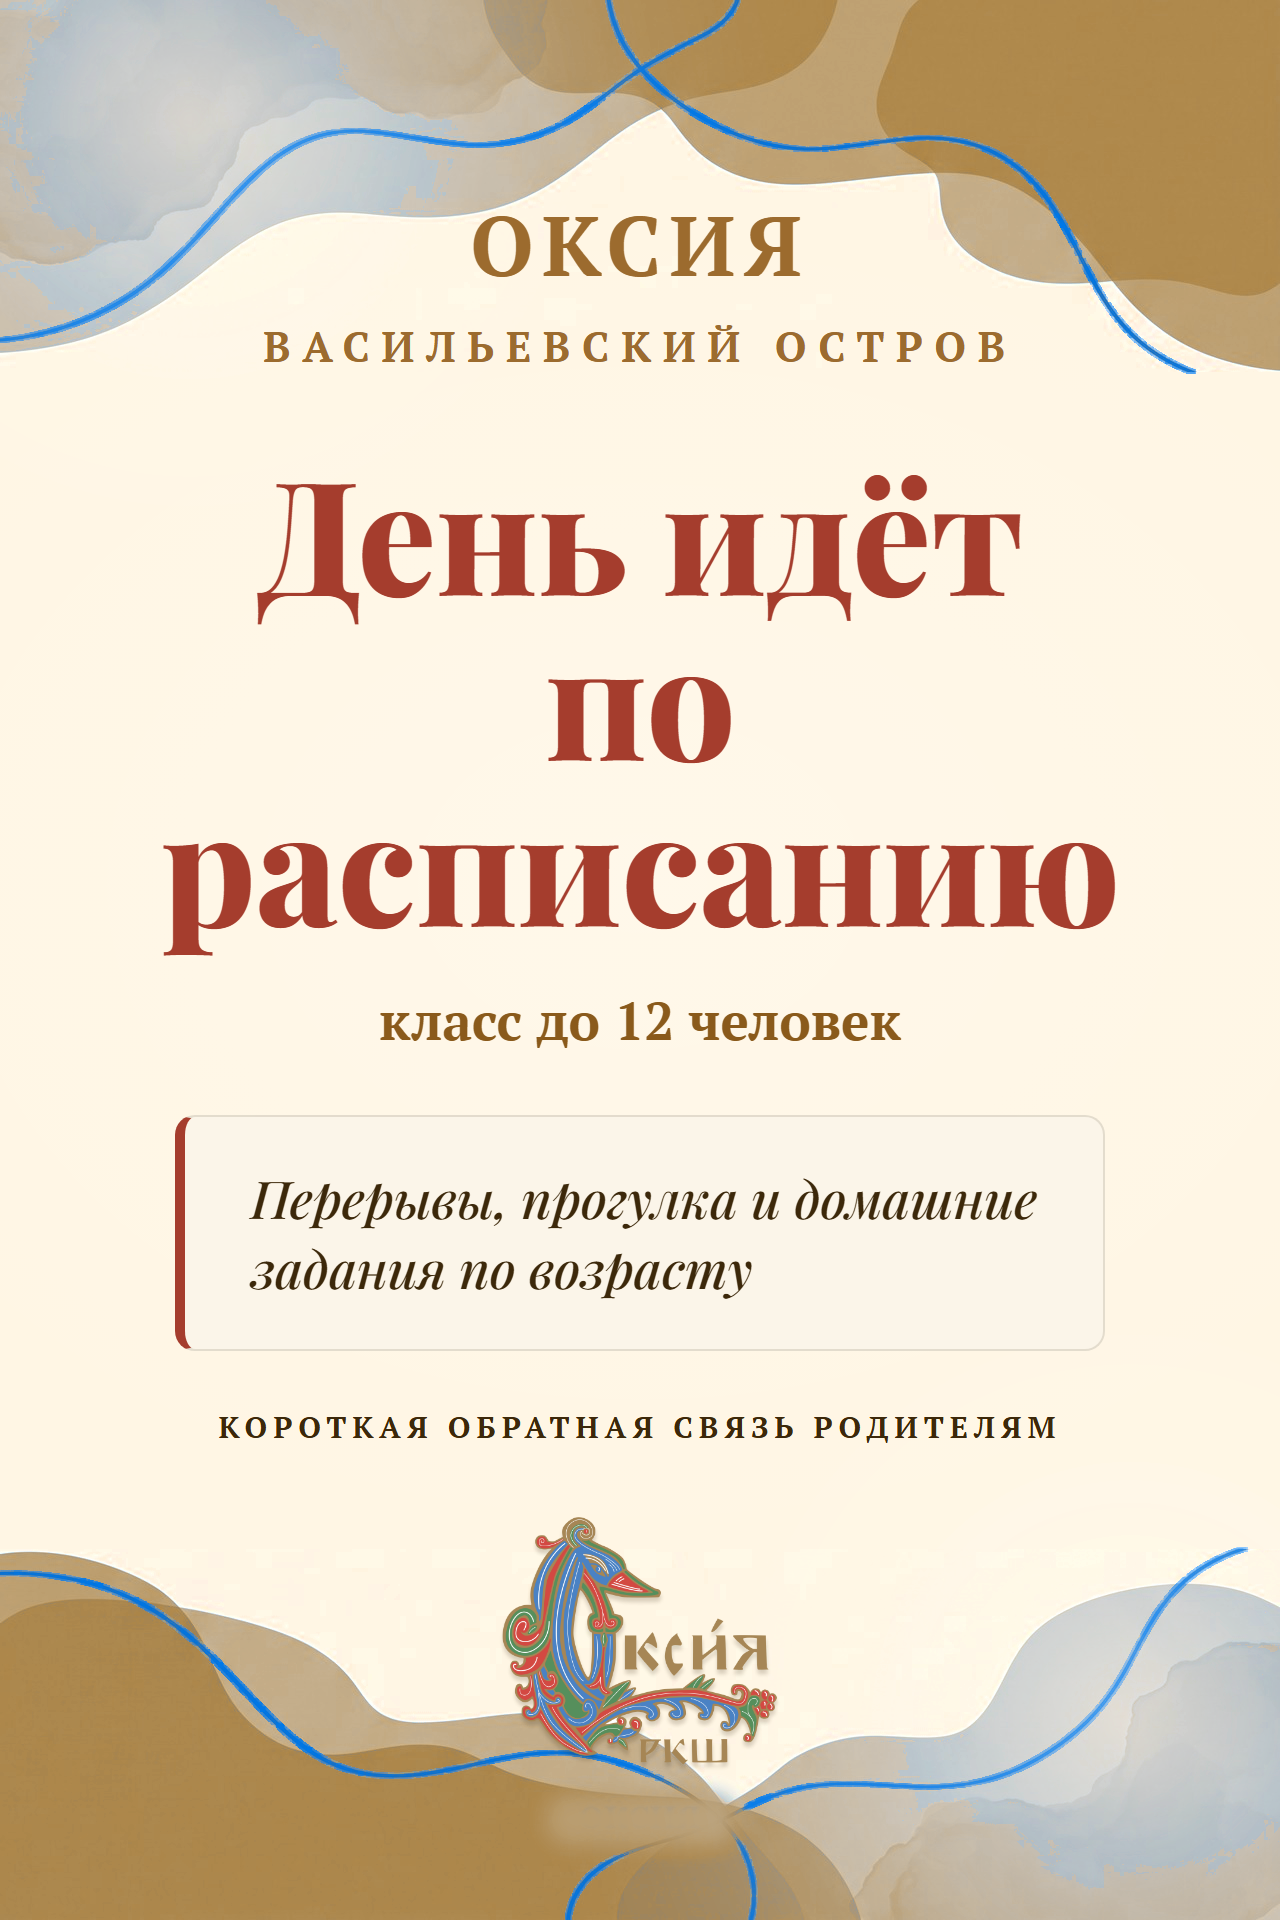
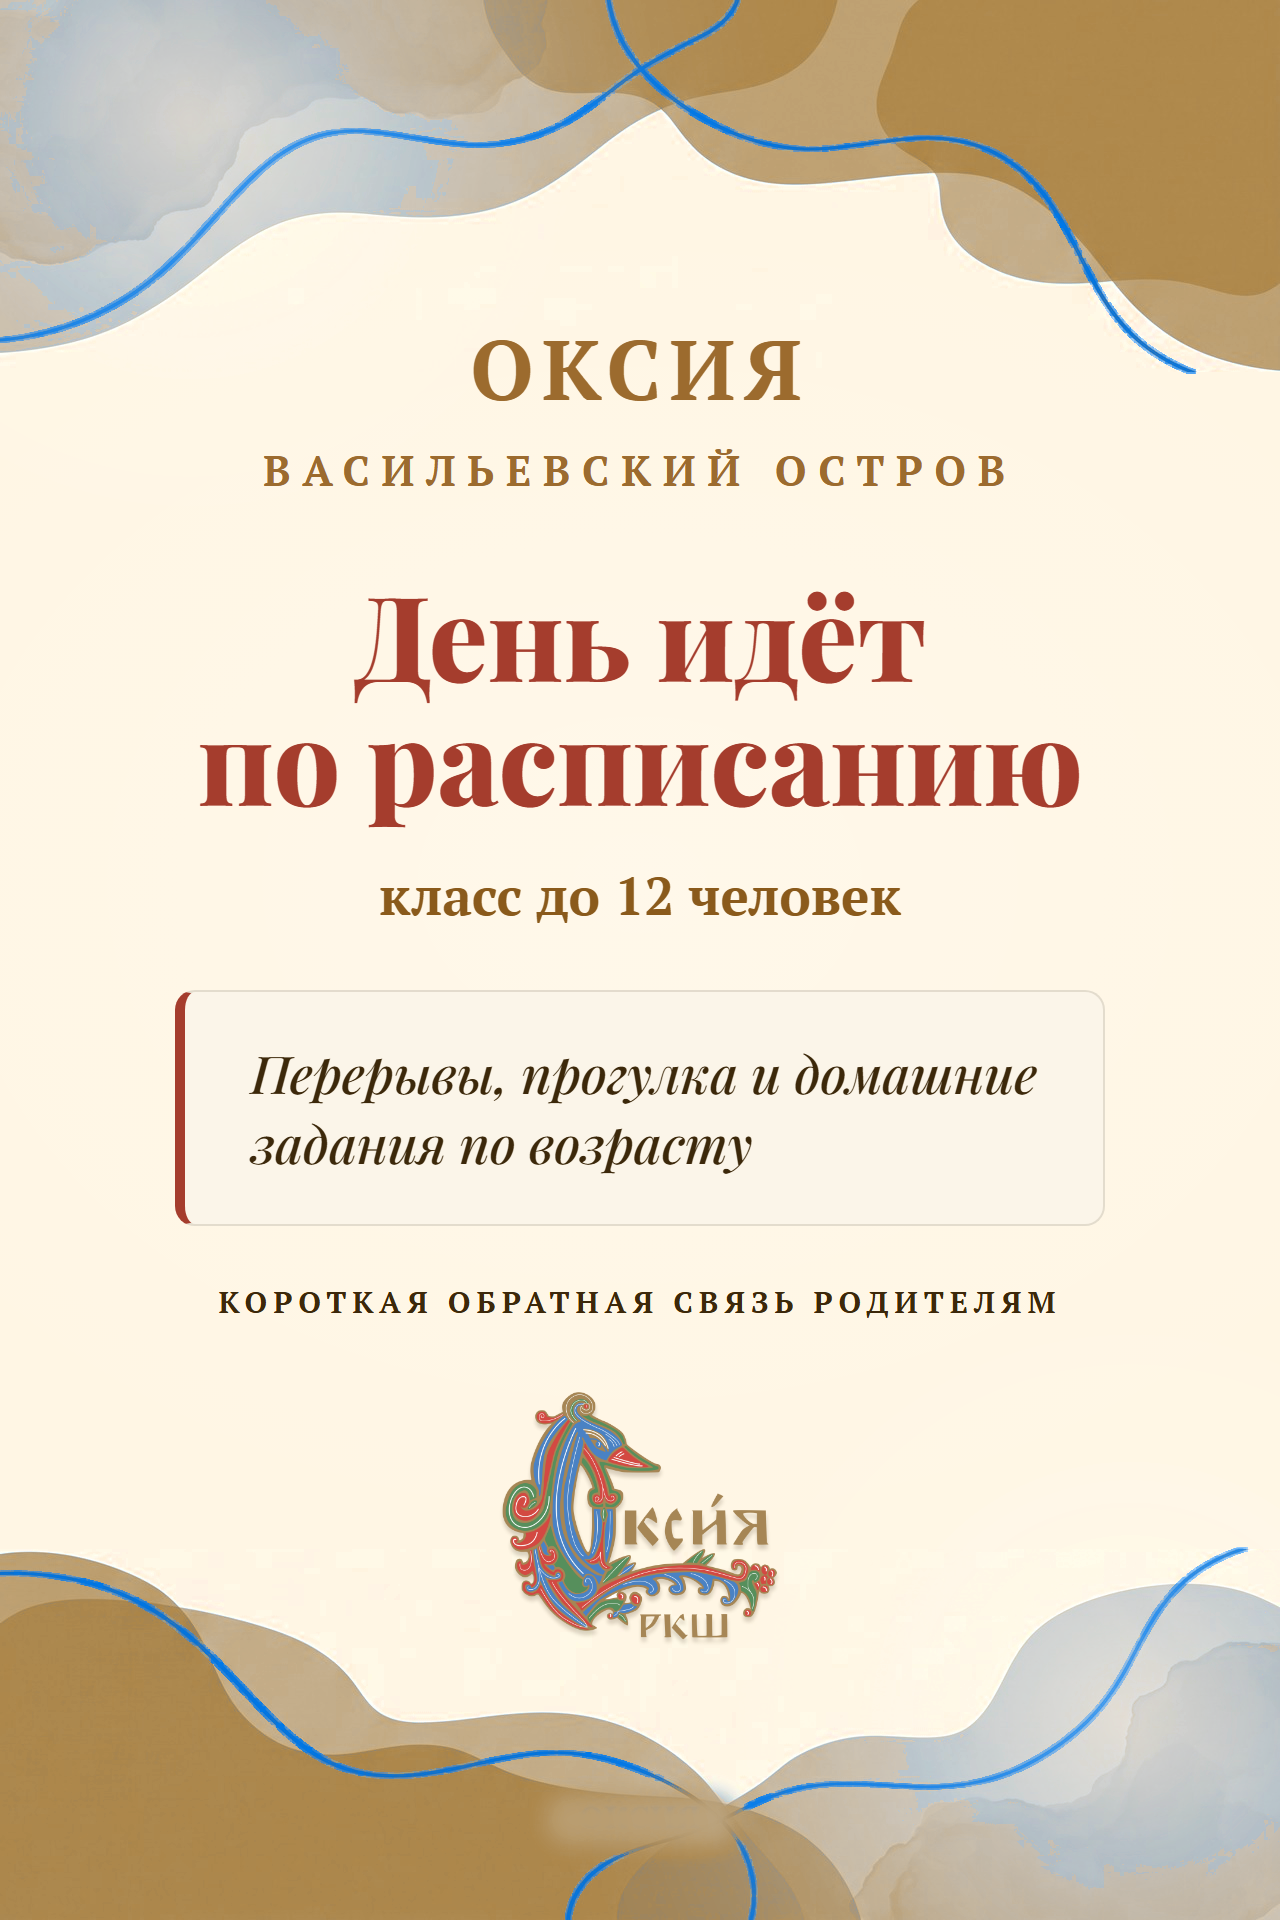
«День идёт по расписанию» — две строки вместо трёх с висячей строкой
Заголовок не влезал в строку на общем кегле (158px), «по» повисало отдельно.
Уменьшен кегль до 118px, как в «Дополнительных занятиях».

Changed region(s): [[0.125, 0.0938, 0.875, 0.7188], [0.1562, 0.7188, 0.625, 0.9375], [0.6562, 0.7188, 0.8125, 0.75]]

diff --git a/card-preview/index.html b/card-preview/index.html
@@ -33,7 +33,7 @@
     <div class="card"><img src="story-sample-01-bright.png?v=8" alt="Семейные классы"></div>
     <div class="card"><img src="cover-03.png?v=2" alt="Дополнительные занятия"></div>
     <div class="card"><img src="cover-04.png?v=2" alt="Педагоги, которые выбрали РКШ"></div>
-    <div class="card"><img src="cover-05.png?v=2" alt="День идёт по расписанию"></div>
+    <div class="card"><img src="cover-05.png?v=3" alt="День идёт по расписанию"></div>
     <div class="card"><img src="cover-06.png?v=2" alt="Три способа связаться"></div>
   </div>
 </div>

diff --git a/story-preview/_build/story-covers-bright.html b/story-preview/_build/story-covers-bright.html
@@ -112,7 +112,7 @@ const S = {
     bottom:{type:'facts', text:'отзывы родителей на карточке ОКСИИ'},
     accent:'var(--blue-muted)', bg:'bg-tb-bright.png' },
 
-5:{ title:'День идёт<br>по расписанию', sub:'класс до 12 человек',
+5:{ title:'День идёт<br>по расписанию', titleSize:'118px', sub:'класс до 12 человек',
     chip:'Перерывы, прогулка и домашние<br>задания по возрасту',
     bottom:{type:'facts', text:'короткая обратная связь родителям'},
     accent:'var(--red-muted)', bg:'bg-tb-bright-gold.png' },
